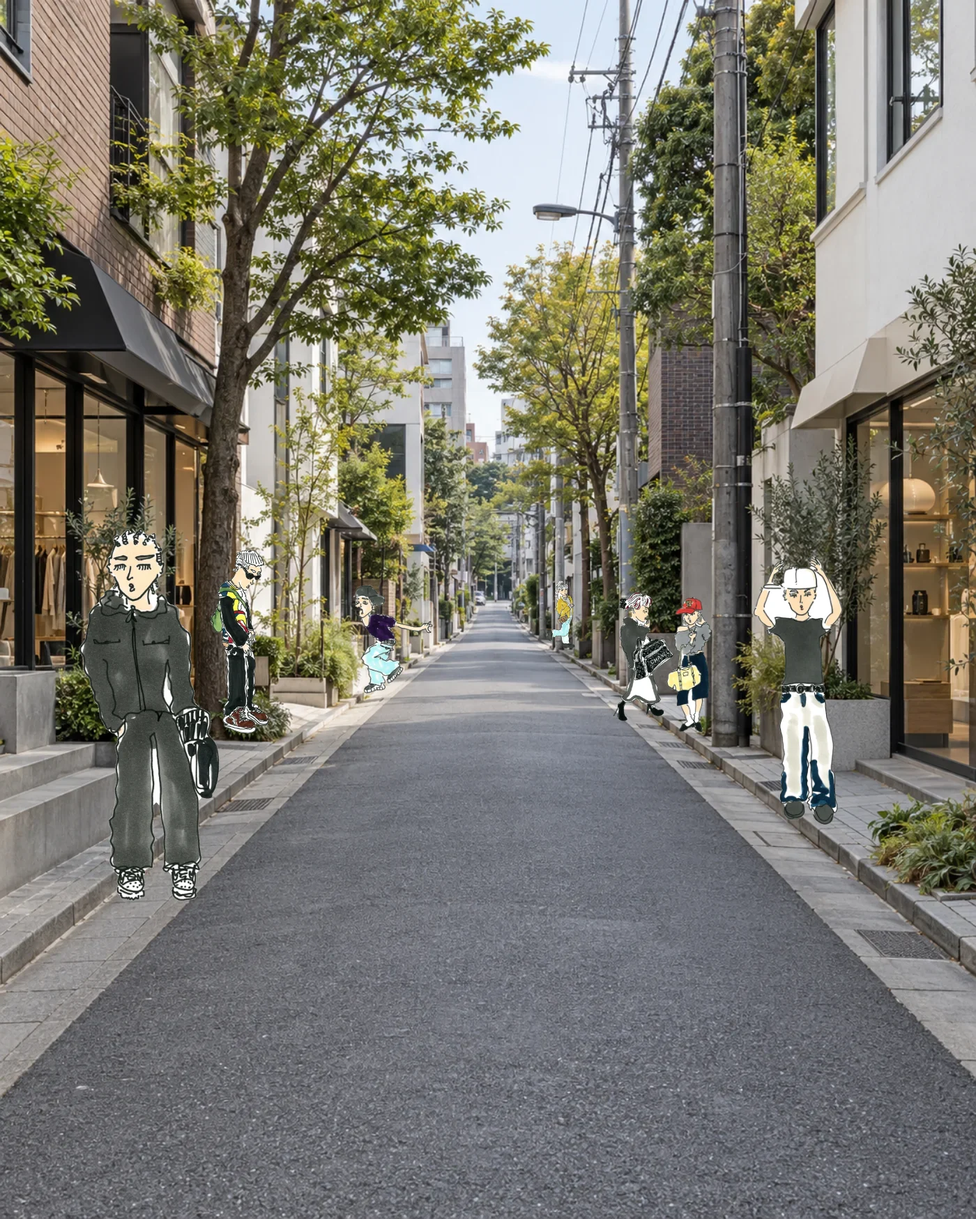
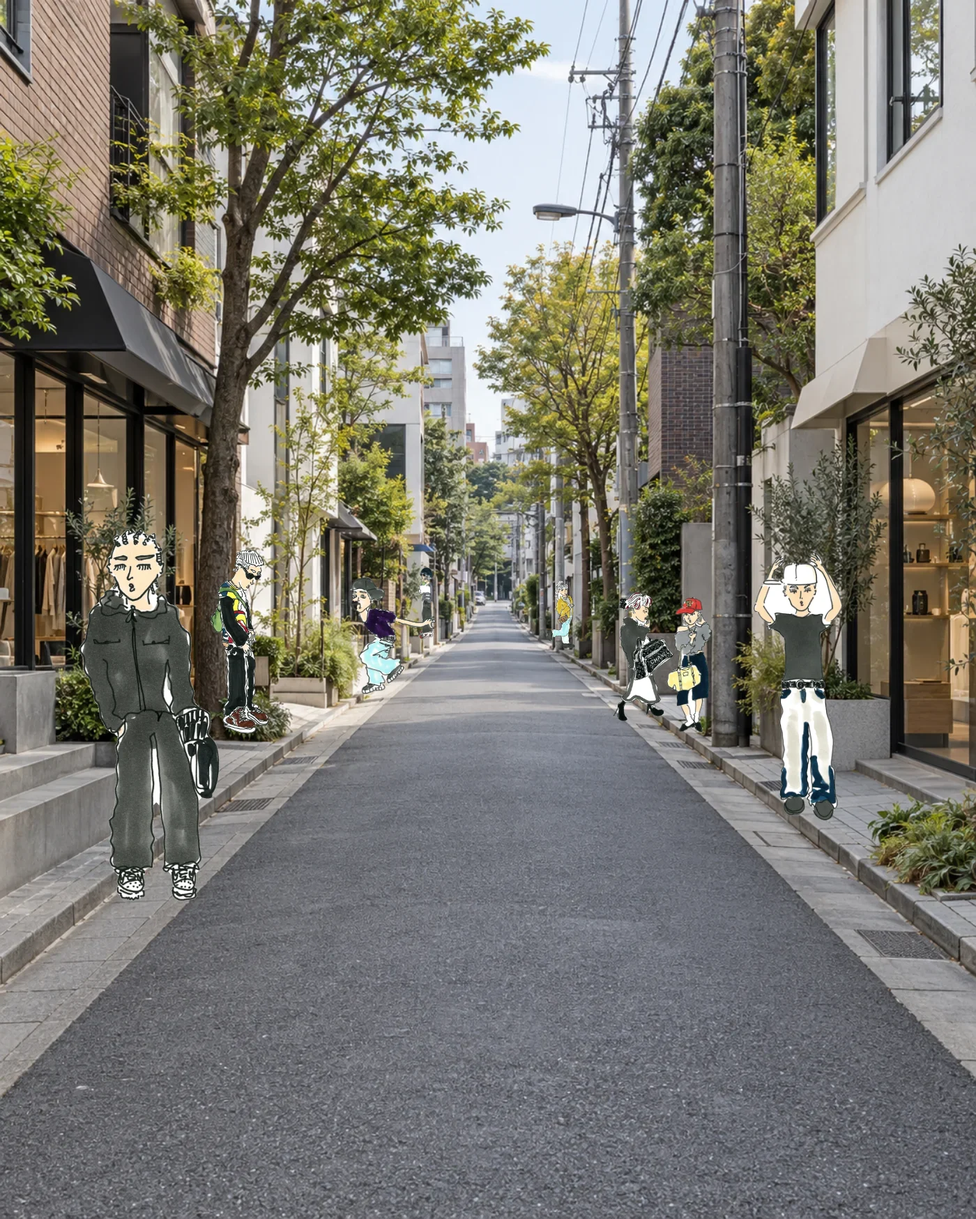
街：もらった画像セットの並びに合わせ、人②を足す
いただいた homepage-image-set は 1400×1750／700×875 で寸法は合うが、
元が 1179×1473 の拡大（READMEに明記）で背景が甘い。
背景のきめを測ると 5.55、元の写真は 7.77。
また README の注意どおり cover で切れる。この街は画面いっぱいの
背景なので、スマホでは左端の人①がほぼ消え、両手をあげた人は
画面の外に出る。そのままは使えない。

かわりに、セットから読み取った並びを元の写真と元の人の絵で焼き直した。
1400版で見たことで、前回の見本（288×512）では見えなかった
人②が入っていると分かったので足してある。

スマホは全員ほぼ100%映る（人①のみ81%）。PCは縦を縮めて脚が切れない。

?v=6 に上げて読み直させる。

Changed region(s): [[0.3379, 0.4631, 0.4607, 0.5866], [0.7986, 0.5557, 0.86, 0.6792], [0.7679, 0.4631, 0.86, 0.5249]]

diff --git a/naoto-assets/street/homepage-image-set (1)/picture-example.html b/naoto-assets/street/homepage-image-set (1)/picture-example.html
@@ -1,0 +1,17 @@
+<!doctype html>
+<html lang="ja">
+<meta charset="utf-8">
+<meta name="viewport" content="width=device-width, initial-scale=1">
+<title>画像表示例</title>
+<style>
+  body { margin: 0; }
+  .street-visual { display: block; width: 100%; max-width: 1400px; height: auto; margin-inline: auto; }
+</style>
+<!-- 先頭のメイン画像を想定。ページ下部に置く場合はfetchpriorityを外し、loading="lazy"を追加してください。 -->
+<picture>
+  <source media="(min-width: 768px)" type="image/webp" srcset="street-pc-1400.webp">
+  <source media="(min-width: 768px)" type="image/jpeg" srcset="street-pc-1400.jpg">
+  <source type="image/webp" srcset="street-sp-700.webp">
+  <img class="street-visual" src="street-sp-700.jpg" width="700" height="875" alt="緑の街路樹に囲まれた通りに、手描きの人物たちが並ぶ" fetchpriority="high">
+</picture>
+</html>

diff --git a/index.html b/index.html
@@ -417,7 +417,7 @@ addEventListener('load',function(){ clearTimeout(t); setTimeout(go,3500); });
   var layers=[].slice.call(g.querySelectorAll('.street i'));
   var small=matchMedia('(max-width:760px)').matches;
   /* ?v は焼き直した街を確実に読ませるための番号。焼き直したら上げる */
-  function src(n){ return 'naoto-assets/street/'+n+(small?'@700w':'')+'.webp?v=5'; }
+  function src(n){ return 'naoto-assets/street/'+n+(small?'@700w':'')+'.webp?v=6'; }
   function load(i){
     var el=layers[i];
     if(!el||el.dataset.loaded) return;
